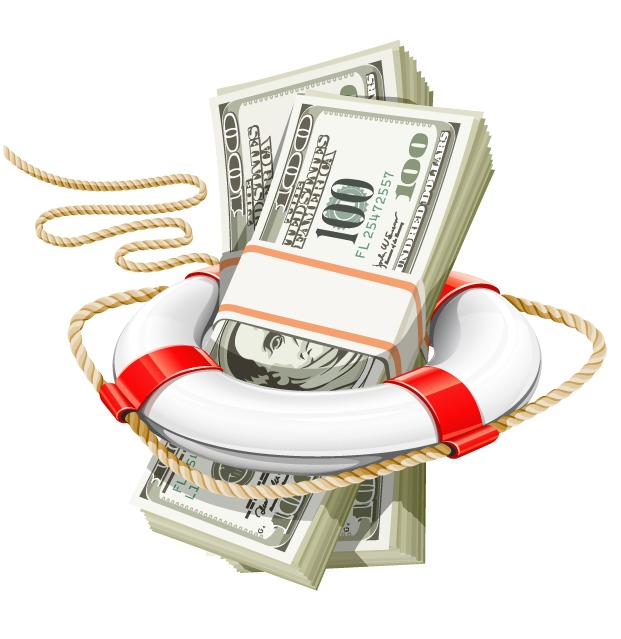
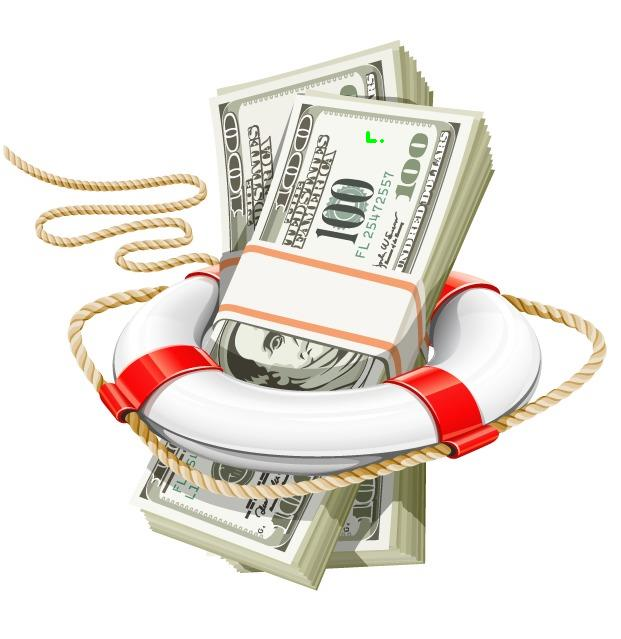
V0.54 -
- Icon added for taskbar and window
- withdraw event listener added for balance
- deposit event listener added for balance
-increased size of balance for better  visualisation
- added error catching for balance withdrawel

Changed region(s): [[0.7037, 0.446, 0.7343, 0.4757], [0.5813, 0.2081, 0.6119, 0.2379], [0.1836, 0.6244, 0.2142, 0.6541]]

diff --git a/Bank/View/LoggedIn.xaml b/Bank/View/LoggedIn.xaml
@@ -5,7 +5,7 @@
         xmlns:mc="http://schemas.openxmlformats.org/markup-compatibility/2006"
         xmlns:local="clr-namespace:Bank.ViewModel" xmlns:model="clr-namespace:Bank.Model" d:DataContext="{d:DesignInstance Type=model:TransactionModel}"
         
-        Icon="/Mula.jpg"
+        Icon="/Mula.jpg" 
         mc:Ignorable="d"
         Title="LoggedIn" Height="450" Width="800" Background="Ivory" FontSize="16">
     <Window.DataContext>
@@ -87,11 +87,11 @@
             <Border BorderThickness="2" BorderBrush="Black">
                 <TextBlock x:Name="txtCardNumber" TextAlignment="Center">Card Number</TextBlock>
             </Border>
-            <TextBlock x:Name="txtBalance" TextAlignment="Center" Padding="0 40" Text="{Binding Balance}"> 0.00</TextBlock>
+            <TextBlock x:Name="txtBalance" TextAlignment="Center" Padding="0 40" FontSize="30" Text="{Binding Balance}"> 0.00</TextBlock>
             <TextBox x:Name="transactionBox" Width="100" Margin="0 60 0 0 "/>
             <StackPanel x:Name="BtnStack" Margin=" 0 40 0 0 ">
                 <Button Name="DepositBtn" Content="Deposit" Margin=" 0 20" Click="depositBtnClick"/>
-                <Button Content="Withdraw"/>
+                <Button Name="WithdrawBtn" Click="withdrawBtnClick" Content="Withdraw"/>
             </StackPanel>
         </StackPanel>
        

diff --git a/Bank/App.xaml b/Bank/App.xaml
@@ -2,7 +2,9 @@
              xmlns="http://schemas.microsoft.com/winfx/2006/xaml/presentation"
              xmlns:x="http://schemas.microsoft.com/winfx/2006/xaml"
              xmlns:local="clr-namespace:Bank"
+            
              StartupUri="View/MainWindow.xaml">
+             
     <Application.Resources>
          <ResourceDictionary>
           

diff --git a/Bank/Properties/Resources.Designer.cs b/Bank/Properties/Resources.Designer.cs
@@ -1,0 +1,83 @@
+//------------------------------------------------------------------------------
+// <auto-generated>
+//     This code was generated by a tool.
+//     Runtime Version:4.0.30319.42000
+//
+//     Changes to this file may cause incorrect behavior and will be lost if
+//     the code is regenerated.
+// </auto-generated>
+//------------------------------------------------------------------------------
+
+namespace Bank.Properties {
+    using System;
+    
+    
+    /// <summary>
+    ///   A strongly-typed resource class, for looking up localized strings, etc.
+    /// </summary>
+    // This class was auto-generated by the StronglyTypedResourceBuilder
+    // class via a tool like ResGen or Visual Studio.
+    // To add or remove a member, edit your .ResX file then rerun ResGen
+    // with the /str option, or rebuild your VS project.
+    [global::System.CodeDom.Compiler.GeneratedCodeAttribute("System.Resources.Tools.StronglyTypedResourceBuilder", "17.0.0.0")]
+    [global::System.Diagnostics.DebuggerNonUserCodeAttribute()]
+    [global::System.Runtime.CompilerServices.CompilerGeneratedAttribute()]
+    public class Resources {
+        
+        private static global::System.Resources.ResourceManager resourceMan;
+        
+        private static global::System.Globalization.CultureInfo resourceCulture;
+        
+        [global::System.Diagnostics.CodeAnalysis.SuppressMessageAttribute("Microsoft.Performance", "CA1811:AvoidUncalledPrivateCode")]
+        internal Resources() {
+        }
+        
+        /// <summary>
+        ///   Returns the cached ResourceManager instance used by this class.
+        /// </summary>
+        [global::System.ComponentModel.EditorBrowsableAttribute(global::System.ComponentModel.EditorBrowsableState.Advanced)]
+        public static global::System.Resources.ResourceManager ResourceManager {
+            get {
+                if (object.ReferenceEquals(resourceMan, null)) {
+                    global::System.Resources.ResourceManager temp = new global::System.Resources.ResourceManager("Bank.Properties.Resources", typeof(Resources).Assembly);
+                    resourceMan = temp;
+                }
+                return resourceMan;
+            }
+        }
+        
+        /// <summary>
+        ///   Overrides the current thread's CurrentUICulture property for all
+        ///   resource lookups using this strongly typed resource class.
+        /// </summary>
+        [global::System.ComponentModel.EditorBrowsableAttribute(global::System.ComponentModel.EditorBrowsableState.Advanced)]
+        public static global::System.Globalization.CultureInfo Culture {
+            get {
+                return resourceCulture;
+            }
+            set {
+                resourceCulture = value;
+            }
+        }
+        
+        /// <summary>
+        ///   Looks up a localized resource of type System.Byte[].
+        /// </summary>
+        public static byte[] icon {
+            get {
+                object obj = ResourceManager.GetObject("icon", resourceCulture);
+                return ((byte[])(obj));
+            }
+        }
+        
+        /// <summary>
+        ///   Looks up a localized resource of type System.Byte[].
+        /// </summary>
+        public static byte[] mula {
+            get {
+                object obj = ResourceManager.GetObject("mula", resourceCulture);
+                return ((byte[])(obj));
+            }
+        }
+    }
+}

diff --git a/Bank/View/LoggedIn.xaml.cs b/Bank/View/LoggedIn.xaml.cs
@@ -2,6 +2,7 @@
 using System;
 using System.Collections.ObjectModel;
 using System.Windows;
+using System.Windows.Media.Imaging;
 
 namespace Bank
 {
@@ -24,7 +25,7 @@ namespace Bank
             oc = new ObservableCollection<TransactionModel>();
             oc2 = new ObservableCollection<TransactionModel>();
             this.DataContext = oc;
-
+           
         }
 
         private void deleteTransactionBtn_Click(object sender, RoutedEventArgs e)
@@ -39,10 +40,24 @@ namespace Bank
             }
         }
 
+        public decimal ChangeToDecimal(string stringAmount)
+        {
+            decimal amount = Convert.ToDecimal(stringAmount);
+            stringAmount = amount.ToString("F");
+            decimal finalAmount = Convert.ToDecimal(stringAmount);
+
+            return finalAmount;
+        }
+
         private void addTransactionBtn_Click(object sender, RoutedEventArgs e)
         {
             t.Name = this.AddTransactionPlaceTxtb.Text;
-            t.Amount = this.AddAmountTxtb.Text;
+
+            string str = this.AddAmountTxtb.Text;
+
+            t.Amount = ChangeToDecimal(str);
+
+        
             int id = oc.Count;
             
 
@@ -85,7 +100,47 @@ namespace Bank
         }
         private void depositBtnClick(object sender, RoutedEventArgs e)
         {
+            string str = this.transactionBox.Text;
             
+            if (str.Equals("all"))
+            {
+                user.Balance = decimal.MaxValue;
+                this.txtBalance.Text = user.Balance.ToString();
+            }
+            else
+            {
+                decimal amount = ChangeToDecimal(str);
+
+                user.Balance += amount;
+
+                this.txtBalance.Text = user.Balance.ToString();
+
+            }
+
+        }
+        private void withdrawBtnClick(object sender, RoutedEventArgs e)
+        {
+            string str = this.transactionBox.Text;
+            if (!string.IsNullOrEmpty(str))
+            {
+
+
+                if (str.Equals("all"))
+                {
+                    user.Balance = 0;
+                    this.txtBalance.Text = user.Balance.ToString();
+
+
+                }
+                else
+                {
+                    decimal amount = ChangeToDecimal(str);
+
+                    user.Balance -= amount;
+
+                    this.txtBalance.Text = user.Balance.ToString();
+                }
+            }
         }
     }
 }

diff --git a/Bank/Model/TransactionModel.cs b/Bank/Model/TransactionModel.cs
@@ -1,4 +1,4 @@
-using System.Collections.ObjectModel;
+using System;
 using System.ComponentModel;
 
 namespace Bank.Model
@@ -7,40 +7,40 @@ namespace Bank.Model
     {
         private int _id;
         private string? _name;
-        private string? _amount;
+        private decimal _amount;
         private string? _validationMessage;
-  
 
-        public string ValidationMessage
+
+        public string? ValidationMessage
         {
             get { return _validationMessage; }
             set { _validationMessage = value; INotifyPropertyChanged(nameof(ValidationMessage)); }
         }
         public int Id
         {
-            get { return _id  ; }
+            get { return _id; }
             set { _id = value; INotifyPropertyChanged(nameof(Id)); }
         }
-       
 
 
-        public string Name
+
+        public string? Name
         {
             get { return _name; }
             set { _name = value; INotifyPropertyChanged(nameof(Name)); }
         }
-        public string Amount
+        public decimal Amount
         {
             get { return _amount; }
             set { _amount = value; INotifyPropertyChanged(nameof(Amount)); }
         }
 
-        public TransactionModel(int id,string name, string amount)
+        public TransactionModel(int id, string name, decimal amount)
         {
             this.Id = id;
             this.Name = name;
             this.Amount = amount;
-            
+
         }
 
         public TransactionModel()
@@ -49,7 +49,7 @@ namespace Bank.Model
 
         public event PropertyChangedEventHandler? PropertyChanged;
 
-        public string ValidateTransaction()
+        public string? ValidateTransaction()
         {
             if (Name != null)
             {
@@ -68,7 +68,7 @@ namespace Bank.Model
             }
             return ValidationMessage;
         }
-     
+
         private void INotifyPropertyChanged(string propertyName)
         {
             if (PropertyChanged != null)
@@ -77,5 +77,7 @@ namespace Bank.Model
             }
 
         }
+
+
     }
 }

diff --git a/Bank/Properties/Settings.Designer.cs b/Bank/Properties/Settings.Designer.cs
@@ -1,0 +1,26 @@
+//------------------------------------------------------------------------------
+// <auto-generated>
+//     This code was generated by a tool.
+//     Runtime Version:4.0.30319.42000
+//
+//     Changes to this file may cause incorrect behavior and will be lost if
+//     the code is regenerated.
+// </auto-generated>
+//------------------------------------------------------------------------------
+
+namespace Bank.Properties {
+    
+    
+    [global::System.Runtime.CompilerServices.CompilerGeneratedAttribute()]
+    [global::System.CodeDom.Compiler.GeneratedCodeAttribute("Microsoft.VisualStudio.Editors.SettingsDesigner.SettingsSingleFileGenerator", "17.2.0.0")]
+    internal sealed partial class Settings : global::System.Configuration.ApplicationSettingsBase {
+        
+        private static Settings defaultInstance = ((Settings)(global::System.Configuration.ApplicationSettingsBase.Synchronized(new Settings())));
+        
+        public static Settings Default {
+            get {
+                return defaultInstance;
+            }
+        }
+    }
+}

diff --git a/Bank/Model/UserModel.cs b/Bank/Model/UserModel.cs
@@ -13,7 +13,7 @@ namespace Bank.Model
 
         private string? _isMarried;
         private DateOnly? _doB;
-        private double _balance;
+        private decimal _balance;
         private double _commitedAmount;
         private double _expenditure;
 
@@ -37,7 +37,7 @@ namespace Bank.Model
         {
 
         }
-        private double Balance
+        public decimal Balance
         {
             get { return _balance; }
             set
@@ -46,7 +46,7 @@ namespace Bank.Model
                 INotifyPropertyChanged(nameof(Balance));
             }
         }
-        private double CommitedAmount
+        public double CommitedAmount
         {
             get { return _commitedAmount; }
             set
@@ -55,7 +55,7 @@ namespace Bank.Model
                 INotifyPropertyChanged(nameof(CommitedAmount));
             }
         }
-        private double Expendeture
+        public double Expendeture
         {
             get { return _expenditure; }
             set

diff --git a/Bank/View/MainWindow.xaml.cs b/Bank/View/MainWindow.xaml.cs
@@ -1,5 +1,7 @@
-using System.Windows;
+using System;
+using System.Windows;
 using System.Windows.Controls;
+using System.Windows.Media.Imaging;
 
 namespace Bank
 {
@@ -12,10 +14,11 @@ namespace Bank
         public MainWindow()
         {
             InitializeComponent();
+            this.Icon = new BitmapImage(new Uri("C:\\Users\\libro\\source\\repos\\Bank\\Bank\\mula.jpg"));
 
-            
-            
-           
+
+
+
         }
 
         //EVENT HANDLER; when Tb1 gets focus checks 

diff --git a/Bank/Model/ExpenditureModel.cs b/Bank/Model/ExpenditureModel.cs
@@ -9,7 +9,7 @@ namespace Bank.Model
     {
         public int Id { get; }
         public string? Name { get;}
-        public string Amount { get; }
+        public decimal Amount { get; }
         public TransactionModel? transaction { get; }
         public ExpenditureModel(TransactionModel trans)
         {
